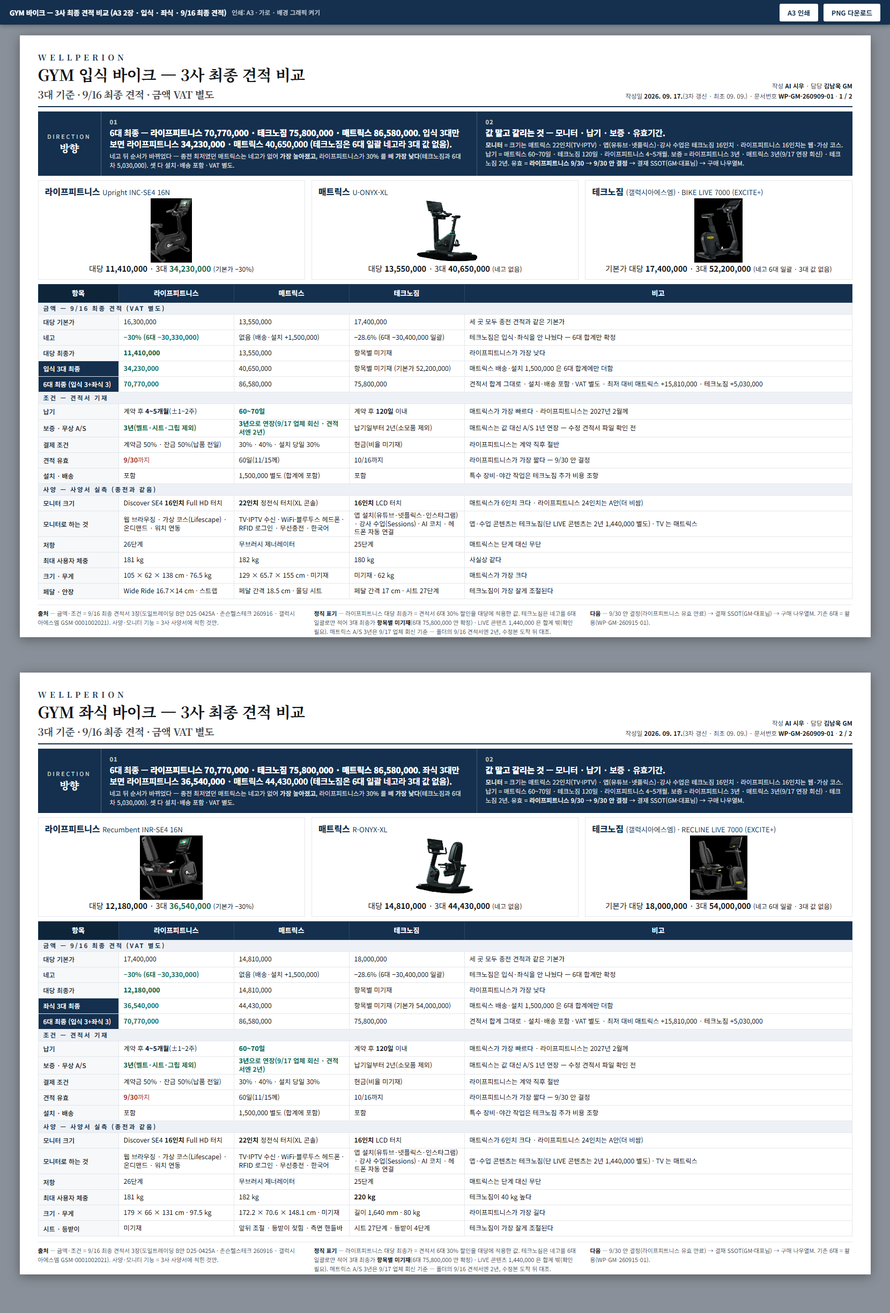
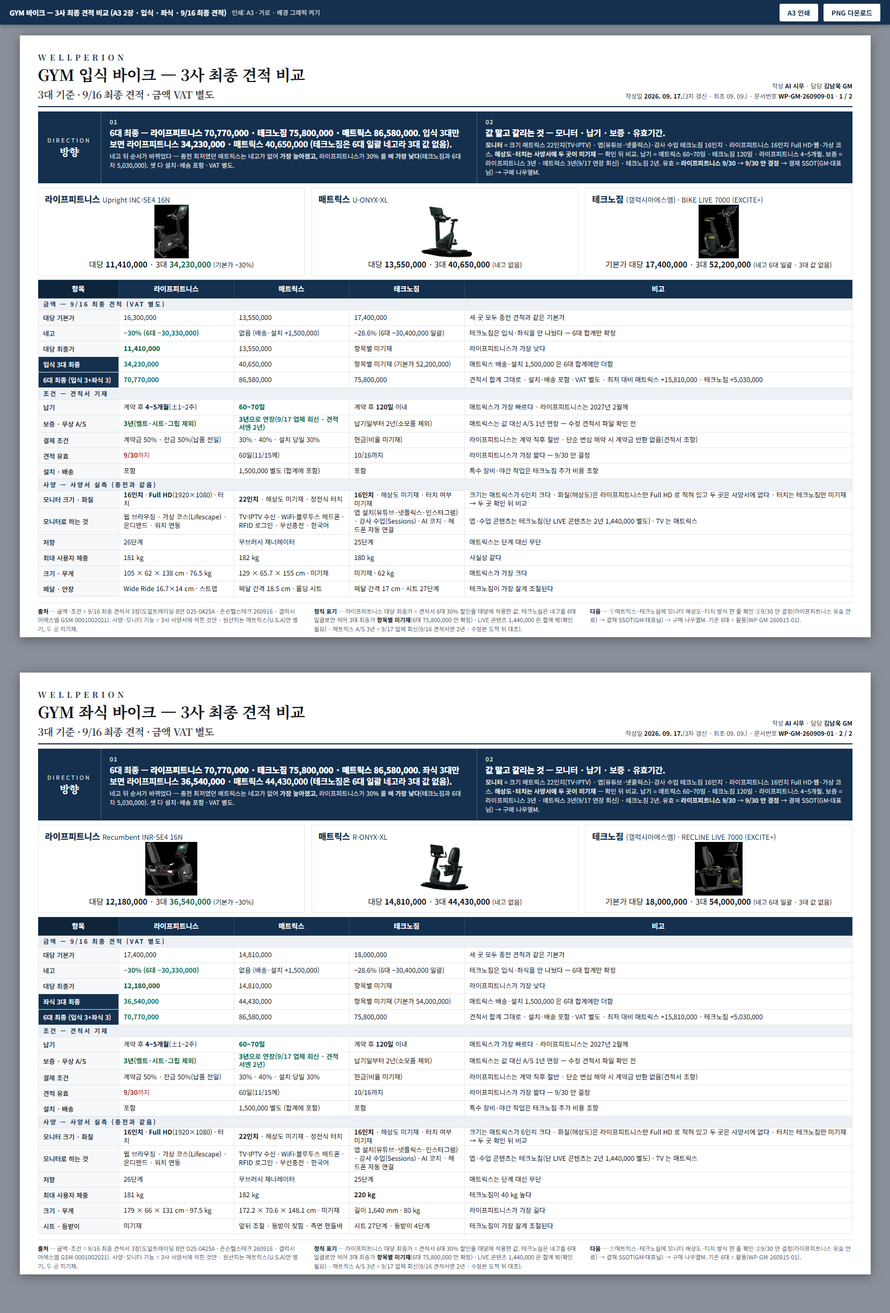
[시우] 바이크 3사 최종 견적 A3 — 모니터 본질 비교(크기·해상도·터치 · 미기재 2곳 확인 요) · 계약금 조항 · 원산지 표기 (GM 검토 요청 2026-09-17)

diff --git a/3. 웰페리온 가이드/coo/chairman/260909_GYM바이크_3사비교_A3.html b/3. 웰페리온 가이드/coo/chairman/260909_GYM바이크_3사비교_A3.html
@@ -134,24 +134,24 @@
     <div class="lb"><span>DIRECTION</span><strong>방향</strong></div>
     <div class="items">
       <div class="it"><div class="n">01</div><div><div class="q">6대 최종 — <b>라이프피트니스 70,770,000 · 테크노짐 75,800,000 · 매트릭스 86,580,000</b>. 입식 3대만 보면 라이프피트니스 <b>34,230,000</b> · 매트릭스 40,650,000 (테크노짐은 6대 일괄 네고라 3대 값 없음).</div><div class="d">네고 뒤 순서가 바뀌었다 — 종전 최저였던 매트릭스는 네고가 없어 <b>가장 높아졌고</b>, 라이프피트니스가 30% 를 빼 <b>가장 낮다</b>(테크노짐과 6대 차 5,030,000). 셋 다 설치·배송 포함 · VAT 별도.</div></div></div>
-      <div class="it"><div class="n">02</div><div><div class="q"><b>값 말고 갈리는 것</b> — 모니터 · 납기 · 보증 · 유효기간.</div><div class="d"><b>모니터</b> = 크기는 매트릭스 22인치(TV·IPTV) · 앱(유튜브·넷플릭스)·강사 수업은 테크노짐 16인치 · 라이프피트니스 16인치는 웹·가상 코스. 납기 = 매트릭스 60~70일 · 테크노짐 120일 · 라이프피트니스 4~5개월. 보증 = 라이프피트니스 3년 · 매트릭스 3년(9/17 연장 회신) · 테크노짐 2년. 유효 = <b>라이프피트니스 9/30</b> → <b>9/30 안 결정</b> → 결재 SSOT(GM·대표님) → 구매 나우열M.</div></div></div>
+      <div class="it"><div class="n">02</div><div><div class="q"><b>값 말고 갈리는 것</b> — 모니터 · 납기 · 보증 · 유효기간.</div><div class="d"><b>모니터</b> = 크기 매트릭스 22인치(TV·IPTV) · 앱(유튜브·넷플릭스)·강사 수업 테크노짐 16인치 · 라이프피트니스 16인치 Full HD·웹·가상 코스. <b>해상도·터치는 사양서에 두 곳이 미기재</b> — 확인 뒤 비교. 납기 = 매트릭스 60~70일 · 테크노짐 120일 · 라이프피트니스 4~5개월. 보증 = 라이프피트니스 3년 · 매트릭스 3년(9/17 연장 회신) · 테크노짐 2년. 유효 = <b>라이프피트니스 9/30</b> → <b>9/30 안 결정</b> → 결재 SSOT(GM·대표님) → 구매 나우열M.</div></div></div>
     </div>
   </div>
 
-  <div style="display:flex; gap:12px; margin-top:8px; height:186px">
+  <div style="display:flex; gap:12px; margin-top:8px; height:164px">
       <div style="flex:1; min-width:0; border:1px solid var(--line); padding:8px 12px 10px; display:flex; flex-direction:column">
         <div style="font-weight:800; font-size:16px; color:var(--navy)">라이프피트니스 <span style="font-weight:400; color:var(--dim); font-size:13px">Upright INC-SE4 16N</span></div>
-        <div style="flex:1; min-height:0; display:flex; align-items:center; justify-content:center; margin:6px 0"><img src="assets/bike/lf_p3_3.png" alt="라이프피트니스" style="max-width:100%; max-height:120px; object-fit:contain"></div>
+        <div style="flex:1; min-height:0; display:flex; align-items:center; justify-content:center; margin:6px 0"><img src="assets/bike/lf_p3_3.png" alt="라이프피트니스" style="max-width:100%; max-height:100px; object-fit:contain"></div>
         <div style="text-align:center; font-size:14.5px">대당 <b>11,410,000</b> · 3대 <b class="good">34,230,000</b> <span style="color:var(--dim);font-size:12px">(기본가 −30%)</span></div>
       </div>
       <div style="flex:1; min-width:0; border:1px solid var(--line); padding:8px 12px 10px; display:flex; flex-direction:column">
         <div style="font-weight:800; font-size:16px; color:var(--navy)">매트릭스 <span style="font-weight:400; color:var(--dim); font-size:13px">U-ONYX-XL</span></div>
-        <div style="flex:1; min-height:0; display:flex; align-items:center; justify-content:center; margin:6px 0"><img src="assets/bike/matrix_p7_6.png" alt="매트릭스" style="max-width:100%; max-height:120px; object-fit:contain"></div>
+        <div style="flex:1; min-height:0; display:flex; align-items:center; justify-content:center; margin:6px 0"><img src="assets/bike/matrix_p7_6.png" alt="매트릭스" style="max-width:100%; max-height:100px; object-fit:contain"></div>
         <div style="text-align:center; font-size:14.5px">대당 <b>13,550,000</b> · 3대 <b>40,650,000</b> <span style="color:var(--dim);font-size:12px">(네고 없음)</span></div>
       </div>
       <div style="flex:1; min-width:0; border:1px solid var(--line); padding:8px 12px 10px; display:flex; flex-direction:column">
         <div style="font-weight:800; font-size:16px; color:var(--navy)">테크노짐 <span style="font-weight:400; color:var(--dim); font-size:13px">(갤럭시아에스엠) · BIKE LIVE 7000 (EXCITE+)</span></div>
-        <div style="flex:1; min-height:0; display:flex; align-items:center; justify-content:center; margin:6px 0"><img src="assets/bike/techno_p3_7.png" alt="테크노짐" style="max-width:100%; max-height:120px; object-fit:contain"></div>
+        <div style="flex:1; min-height:0; display:flex; align-items:center; justify-content:center; margin:6px 0"><img src="assets/bike/techno_p3_7.png" alt="테크노짐" style="max-width:100%; max-height:100px; object-fit:contain"></div>
         <div style="text-align:center; font-size:14.5px">기본가 대당 <b>17,400,000</b> · 3대 <b>52,200,000</b> <span style="color:var(--dim);font-size:12px">(네고 6대 일괄 · 3대 값 없음)</span></div>
       </div>
   </div>
@@ -169,19 +169,19 @@
         <tr class="grp"><td colspan="5">조건 — 견적서 기재</td></tr>
         <tr><td class="k">납기</td><td class="c">계약 후 <b>4~5개월</b>(±1~2주)</td><td class="c good"><b>60~70일</b></td><td class="c">계약 후 <b>120일</b> 이내</td><td>매트릭스가 가장 빠르다 · 라이프피트니스는 2027년 2월께</td></tr>
         <tr><td class="k">보증 · 무상 A/S</td><td class="c good"><b>3년</b>(벨트·시트·그립 제외)</td><td class="c good"><b>3년</b>으로 연장(9/17 업체 회신 · 견적서엔 2년)</td><td class="c">납기일부터 2년(소모품 제외)</td><td>매트릭스는 값 대신 A/S 1년 연장 — 수정 견적서 파일 확인 전</td></tr>
-        <tr><td class="k">결제 조건</td><td class="c">계약금 50% · 잔금 50%(납품 전일)</td><td class="c">30% · 40% · 설치 당일 30%</td><td class="c">현금(비율 미기재)</td><td>라이프피트니스는 계약 직후 절반</td></tr>
+        <tr><td class="k">결제 조건</td><td class="c">계약금 50% · 잔금 50%(납품 전일)</td><td class="c">30% · 40% · 설치 당일 30%</td><td class="c">현금(비율 미기재)</td><td>라이프피트니스는 계약 직후 절반 · 단순 변심 해약 시 계약금 반환 없음(견적서 조항)</td></tr>
         <tr><td class="k">견적 유효</td><td class="c" style="color:#9E2A2A"><b>9/30</b>까지</td><td class="c">60일(11/15께)</td><td class="c">10/16까지</td><td>라이프피트니스가 가장 짧다 — 9/30 안 결정</td></tr>
         <tr><td class="k">설치 · 배송</td><td class="c">포함</td><td class="c">1,500,000 별도 (합계에 포함)</td><td class="c">포함</td><td>특수 장비·야간 작업은 테크노짐 추가 비용 조항</td></tr>
         <tr class="grp"><td colspan="5">사양 — 사양서 실측 (종전과 같음)</td></tr>
-        <tr><td class="k">모니터 크기</td><td class="c">Discover SE4 <b>16인치</b> Full HD 터치</td><td class="c"><b>22인치</b> 정전식 터치(XL 콘솔)</td><td class="c"><b>16인치</b> LCD 터치</td><td>매트릭스가 6인치 크다 · 라이프피트니스 24인치는 A안(더 비쌈)</td></tr><tr><td class="k">모니터로 하는 것</td><td class="c">웹 브라우징 · 가상 코스(Lifescape) · 온디맨드 · 워치 연동</td><td class="c">TV·IPTV 수신 · WiFi·블루투스 헤드폰 · RFID 로그인 · 무선충전 · 한국어</td><td class="c">앱 설치(유튜브·넷플릭스·인스타그램) · 강사 수업(Sessions) · AI 코치 · 헤드폰 자동 연결</td><td>앱·수업 콘텐츠는 테크노짐(단 LIVE 콘텐츠는 2년 1,440,000 별도) · TV 는 매트릭스</td></tr><tr><td class="k">저항</td><td class="c">26단계</td><td class="c">무브러시 제너레이터</td><td class="c">25단계</td><td>매트릭스는 단계 대신 무단</td></tr><tr><td class="k">최대 사용자 체중</td><td class="c">181 kg</td><td class="c">182 kg</td><td class="c">180 kg</td><td>사실상 같다</td></tr><tr><td class="k">크기 · 무게</td><td class="c">105 × 62 × 138 cm · 76.5 kg</td><td class="c">129 × 65.7 × 155 cm · 미기재</td><td class="c">미기재 · 62 kg</td><td>매트릭스가 가장 크다</td></tr><tr><td class="k">페달 · 안장</td><td class="c">Wide Ride 16.7×14 cm · 스트랩</td><td class="c">페달 간격 18.5 cm · 몰딩 시트</td><td class="c">페달 간격 17 cm · 시트 27단계</td><td>테크노짐이 가장 잘게 조절된다</td></tr>
+        <tr><td class="k">모니터 크기 · 화질</td><td class="c"><b>16인치</b> · <b>Full HD</b>(1920×1080) · 터치</td><td class="c"><b>22인치</b> · 해상도 미기재 · 정전식 터치</td><td class="c"><b>16인치</b> · 해상도 미기재 · 터치 여부 미기재</td><td>크기는 매트릭스가 6인치 크다 · 화질(해상도)은 라이프피트니스만 Full HD 로 적혀 있고 두 곳은 사양서에 없다 · 터치는 테크노짐만 미기재 → 두 곳 확인 뒤 비교</td></tr><tr><td class="k">모니터로 하는 것</td><td class="c">웹 브라우징 · 가상 코스(Lifescape) · 온디맨드 · 워치 연동</td><td class="c">TV·IPTV 수신 · WiFi·블루투스 헤드폰 · RFID 로그인 · 무선충전 · 한국어</td><td class="c">앱 설치(유튜브·넷플릭스·인스타그램) · 강사 수업(Sessions) · AI 코치 · 헤드폰 자동 연결</td><td>앱·수업 콘텐츠는 테크노짐(단 LIVE 콘텐츠는 2년 1,440,000 별도) · TV 는 매트릭스</td></tr><tr><td class="k">저항</td><td class="c">26단계</td><td class="c">무브러시 제너레이터</td><td class="c">25단계</td><td>매트릭스는 단계 대신 무단</td></tr><tr><td class="k">최대 사용자 체중</td><td class="c">181 kg</td><td class="c">182 kg</td><td class="c">180 kg</td><td>사실상 같다</td></tr><tr><td class="k">크기 · 무게</td><td class="c">105 × 62 × 138 cm · 76.5 kg</td><td class="c">129 × 65.7 × 155 cm · 미기재</td><td class="c">미기재 · 62 kg</td><td>매트릭스가 가장 크다</td></tr><tr><td class="k">페달 · 안장</td><td class="c">Wide Ride 16.7×14 cm · 스트랩</td><td class="c">페달 간격 18.5 cm · 몰딩 시트</td><td class="c">페달 간격 17 cm · 시트 27단계</td><td>테크노짐이 가장 잘게 조절된다</td></tr>
       </tbody>
     </table>
   </div>
 
   <div class="foot">
-    <div><b>출처</b> — 금액·조건 = 9/16 최종 견적서 3장(도일트레이딩 B안 D25-0425A · 존슨헬스테크 260916 · 갤럭시아에스엠 GSM-0001002021). 사양·모니터 기능 = 3사 사양서에 적힌 것만.</div>
-    <div><b>정직 표기</b> — 라이프피트니스 대당 최종가 = 견적서 6대 30% 할인을 대당에 적용한 값. 테크노짐은 네고를 6대 일괄로만 적어 3대 최종가 <b>항목별 미기재</b>(6대 75,800,000 만 확정) · LIVE 콘텐츠 1,440,000 은 합계 밖(확인 필요). 매트릭스 A/S 3년은 9/17 업체 회신 기준 — 폴더의 9/16 견적서엔 2년, 수정본 도착 뒤 대조.</div>
-    <div><b>다음</b> — 9/30 안 결정(라이프피트니스 유효 만료) → 결재 SSOT(GM·대표님) → 구매 나우열M. 기존 6대 = 활용(WP-GM-260915-01).</div>
+    <div><b>출처</b> — 금액·조건 = 9/16 최종 견적서 3장(도일트레이딩 B안 D25-0425A · 존슨헬스테크 260916 · 갤럭시아에스엠 GSM-0001002021). 사양·모니터 기능 = 3사 사양서에 적힌 것만 · 원산지는 매트릭스(U.S.A)만 명기, 두 곳 미기재.</div>
+    <div><b>정직 표기</b> — 라이프피트니스 대당 최종가 = 견적서 6대 30% 할인을 대당에 적용한 값. 테크노짐은 네고를 6대 일괄로만 적어 3대 최종가 <b>항목별 미기재</b>(6대 75,800,000 만 확정) · LIVE 콘텐츠 1,440,000 은 합계 밖(확인 필요) · 매트릭스 A/S 3년 = 9/17 업체 회신(9/16 견적서엔 2년 · 수정본 도착 뒤 대조).</div>
+    <div><b>다음</b> — ①매트릭스·테크노짐에 모니터 해상도·터치 방식 한 줄 확인 ②9/30 안 결정(라이프피트니스 유효 만료) → 결재 SSOT(GM·대표님) → 구매 나우열M. 기존 6대 = 활용(WP-GM-260915-01).</div>
   </div>
 </div>
 
@@ -201,24 +201,24 @@
     <div class="lb"><span>DIRECTION</span><strong>방향</strong></div>
     <div class="items">
       <div class="it"><div class="n">01</div><div><div class="q">6대 최종 — <b>라이프피트니스 70,770,000 · 테크노짐 75,800,000 · 매트릭스 86,580,000</b>. 좌식 3대만 보면 라이프피트니스 <b>36,540,000</b> · 매트릭스 44,430,000 (테크노짐은 6대 일괄 네고라 3대 값 없음).</div><div class="d">네고 뒤 순서가 바뀌었다 — 종전 최저였던 매트릭스는 네고가 없어 <b>가장 높아졌고</b>, 라이프피트니스가 30% 를 빼 <b>가장 낮다</b>(테크노짐과 6대 차 5,030,000). 셋 다 설치·배송 포함 · VAT 별도.</div></div></div>
-      <div class="it"><div class="n">02</div><div><div class="q"><b>값 말고 갈리는 것</b> — 모니터 · 납기 · 보증 · 유효기간.</div><div class="d"><b>모니터</b> = 크기는 매트릭스 22인치(TV·IPTV) · 앱(유튜브·넷플릭스)·강사 수업은 테크노짐 16인치 · 라이프피트니스 16인치는 웹·가상 코스. 납기 = 매트릭스 60~70일 · 테크노짐 120일 · 라이프피트니스 4~5개월. 보증 = 라이프피트니스 3년 · 매트릭스 3년(9/17 연장 회신) · 테크노짐 2년. 유효 = <b>라이프피트니스 9/30</b> → <b>9/30 안 결정</b> → 결재 SSOT(GM·대표님) → 구매 나우열M.</div></div></div>
+      <div class="it"><div class="n">02</div><div><div class="q"><b>값 말고 갈리는 것</b> — 모니터 · 납기 · 보증 · 유효기간.</div><div class="d"><b>모니터</b> = 크기 매트릭스 22인치(TV·IPTV) · 앱(유튜브·넷플릭스)·강사 수업 테크노짐 16인치 · 라이프피트니스 16인치 Full HD·웹·가상 코스. <b>해상도·터치는 사양서에 두 곳이 미기재</b> — 확인 뒤 비교. 납기 = 매트릭스 60~70일 · 테크노짐 120일 · 라이프피트니스 4~5개월. 보증 = 라이프피트니스 3년 · 매트릭스 3년(9/17 연장 회신) · 테크노짐 2년. 유효 = <b>라이프피트니스 9/30</b> → <b>9/30 안 결정</b> → 결재 SSOT(GM·대표님) → 구매 나우열M.</div></div></div>
     </div>
   </div>
 
-  <div style="display:flex; gap:12px; margin-top:8px; height:186px">
+  <div style="display:flex; gap:12px; margin-top:8px; height:164px">
       <div style="flex:1; min-width:0; border:1px solid var(--line); padding:8px 12px 10px; display:flex; flex-direction:column">
         <div style="font-weight:800; font-size:16px; color:var(--navy)">라이프피트니스 <span style="font-weight:400; color:var(--dim); font-size:13px">Recumbent INR-SE4 16N</span></div>
-        <div style="flex:1; min-height:0; display:flex; align-items:center; justify-content:center; margin:6px 0"><img src="assets/bike/lf_p4_3.png" alt="라이프피트니스" style="max-width:100%; max-height:120px; object-fit:contain"></div>
+        <div style="flex:1; min-height:0; display:flex; align-items:center; justify-content:center; margin:6px 0"><img src="assets/bike/lf_p4_3.png" alt="라이프피트니스" style="max-width:100%; max-height:100px; object-fit:contain"></div>
         <div style="text-align:center; font-size:14.5px">대당 <b>12,180,000</b> · 3대 <b class="good">36,540,000</b> <span style="color:var(--dim);font-size:12px">(기본가 −30%)</span></div>
       </div>
       <div style="flex:1; min-width:0; border:1px solid var(--line); padding:8px 12px 10px; display:flex; flex-direction:column">
         <div style="font-weight:800; font-size:16px; color:var(--navy)">매트릭스 <span style="font-weight:400; color:var(--dim); font-size:13px">R-ONYX-XL</span></div>
-        <div style="flex:1; min-height:0; display:flex; align-items:center; justify-content:center; margin:6px 0"><img src="assets/bike/matrix_p9_3.png" alt="매트릭스" style="max-width:100%; max-height:120px; object-fit:contain"></div>
+        <div style="flex:1; min-height:0; display:flex; align-items:center; justify-content:center; margin:6px 0"><img src="assets/bike/matrix_p9_3.png" alt="매트릭스" style="max-width:100%; max-height:100px; object-fit:contain"></div>
         <div style="text-align:center; font-size:14.5px">대당 <b>14,810,000</b> · 3대 <b>44,430,000</b> <span style="color:var(--dim);font-size:12px">(네고 없음)</span></div>
       </div>
       <div style="flex:1; min-width:0; border:1px solid var(--line); padding:8px 12px 10px; display:flex; flex-direction:column">
         <div style="font-weight:800; font-size:16px; color:var(--navy)">테크노짐 <span style="font-weight:400; color:var(--dim); font-size:13px">(갤럭시아에스엠) · RECLINE LIVE 7000 (EXCITE+)</span></div>
-        <div style="flex:1; min-height:0; display:flex; align-items:center; justify-content:center; margin:6px 0"><img src="assets/bike/techno_p4_7.png" alt="테크노짐" style="max-width:100%; max-height:120px; object-fit:contain"></div>
+        <div style="flex:1; min-height:0; display:flex; align-items:center; justify-content:center; margin:6px 0"><img src="assets/bike/techno_p4_7.png" alt="테크노짐" style="max-width:100%; max-height:100px; object-fit:contain"></div>
         <div style="text-align:center; font-size:14.5px">기본가 대당 <b>18,000,000</b> · 3대 <b>54,000,000</b> <span style="color:var(--dim);font-size:12px">(네고 6대 일괄 · 3대 값 없음)</span></div>
       </div>
   </div>
@@ -236,19 +236,19 @@
         <tr class="grp"><td colspan="5">조건 — 견적서 기재</td></tr>
         <tr><td class="k">납기</td><td class="c">계약 후 <b>4~5개월</b>(±1~2주)</td><td class="c good"><b>60~70일</b></td><td class="c">계약 후 <b>120일</b> 이내</td><td>매트릭스가 가장 빠르다 · 라이프피트니스는 2027년 2월께</td></tr>
         <tr><td class="k">보증 · 무상 A/S</td><td class="c good"><b>3년</b>(벨트·시트·그립 제외)</td><td class="c good"><b>3년</b>으로 연장(9/17 업체 회신 · 견적서엔 2년)</td><td class="c">납기일부터 2년(소모품 제외)</td><td>매트릭스는 값 대신 A/S 1년 연장 — 수정 견적서 파일 확인 전</td></tr>
-        <tr><td class="k">결제 조건</td><td class="c">계약금 50% · 잔금 50%(납품 전일)</td><td class="c">30% · 40% · 설치 당일 30%</td><td class="c">현금(비율 미기재)</td><td>라이프피트니스는 계약 직후 절반</td></tr>
+        <tr><td class="k">결제 조건</td><td class="c">계약금 50% · 잔금 50%(납품 전일)</td><td class="c">30% · 40% · 설치 당일 30%</td><td class="c">현금(비율 미기재)</td><td>라이프피트니스는 계약 직후 절반 · 단순 변심 해약 시 계약금 반환 없음(견적서 조항)</td></tr>
         <tr><td class="k">견적 유효</td><td class="c" style="color:#9E2A2A"><b>9/30</b>까지</td><td class="c">60일(11/15께)</td><td class="c">10/16까지</td><td>라이프피트니스가 가장 짧다 — 9/30 안 결정</td></tr>
         <tr><td class="k">설치 · 배송</td><td class="c">포함</td><td class="c">1,500,000 별도 (합계에 포함)</td><td class="c">포함</td><td>특수 장비·야간 작업은 테크노짐 추가 비용 조항</td></tr>
         <tr class="grp"><td colspan="5">사양 — 사양서 실측 (종전과 같음)</td></tr>
-        <tr><td class="k">모니터 크기</td><td class="c">Discover SE4 <b>16인치</b> Full HD 터치</td><td class="c"><b>22인치</b> 정전식 터치(XL 콘솔)</td><td class="c"><b>16인치</b> LCD 터치</td><td>매트릭스가 6인치 크다 · 라이프피트니스 24인치는 A안(더 비쌈)</td></tr><tr><td class="k">모니터로 하는 것</td><td class="c">웹 브라우징 · 가상 코스(Lifescape) · 온디맨드 · 워치 연동</td><td class="c">TV·IPTV 수신 · WiFi·블루투스 헤드폰 · RFID 로그인 · 무선충전 · 한국어</td><td class="c">앱 설치(유튜브·넷플릭스·인스타그램) · 강사 수업(Sessions) · AI 코치 · 헤드폰 자동 연결</td><td>앱·수업 콘텐츠는 테크노짐(단 LIVE 콘텐츠는 2년 1,440,000 별도) · TV 는 매트릭스</td></tr><tr><td class="k">저항</td><td class="c">26단계</td><td class="c">무브러시 제너레이터</td><td class="c">25단계</td><td>매트릭스는 단계 대신 무단</td></tr><tr><td class="k">최대 사용자 체중</td><td class="c">181 kg</td><td class="c">182 kg</td><td class="c"><b>220 kg</b></td><td>테크노짐이 40 kg 높다</td></tr><tr><td class="k">크기 · 무게</td><td class="c">179 × 66 × 131 cm · 97.5 kg</td><td class="c">172.2 × 70.6 × 148.1 cm · 미기재</td><td class="c">길이 1,640 mm · 80 kg</td><td>라이프피트니스가 가장 길다</td></tr><tr><td class="k">시트 · 등받이</td><td class="c">미기재</td><td class="c">앞뒤 조절 · 등받이 젖힘 · 측면 핸들바</td><td class="c">시트 27단계 · 등받이 4단계</td><td>테크노짐이 가장 잘게 조절된다</td></tr>
+        <tr><td class="k">모니터 크기 · 화질</td><td class="c"><b>16인치</b> · <b>Full HD</b>(1920×1080) · 터치</td><td class="c"><b>22인치</b> · 해상도 미기재 · 정전식 터치</td><td class="c"><b>16인치</b> · 해상도 미기재 · 터치 여부 미기재</td><td>크기는 매트릭스가 6인치 크다 · 화질(해상도)은 라이프피트니스만 Full HD 로 적혀 있고 두 곳은 사양서에 없다 · 터치는 테크노짐만 미기재 → 두 곳 확인 뒤 비교</td></tr><tr><td class="k">모니터로 하는 것</td><td class="c">웹 브라우징 · 가상 코스(Lifescape) · 온디맨드 · 워치 연동</td><td class="c">TV·IPTV 수신 · WiFi·블루투스 헤드폰 · RFID 로그인 · 무선충전 · 한국어</td><td class="c">앱 설치(유튜브·넷플릭스·인스타그램) · 강사 수업(Sessions) · AI 코치 · 헤드폰 자동 연결</td><td>앱·수업 콘텐츠는 테크노짐(단 LIVE 콘텐츠는 2년 1,440,000 별도) · TV 는 매트릭스</td></tr><tr><td class="k">저항</td><td class="c">26단계</td><td class="c">무브러시 제너레이터</td><td class="c">25단계</td><td>매트릭스는 단계 대신 무단</td></tr><tr><td class="k">최대 사용자 체중</td><td class="c">181 kg</td><td class="c">182 kg</td><td class="c"><b>220 kg</b></td><td>테크노짐이 40 kg 높다</td></tr><tr><td class="k">크기 · 무게</td><td class="c">179 × 66 × 131 cm · 97.5 kg</td><td class="c">172.2 × 70.6 × 148.1 cm · 미기재</td><td class="c">길이 1,640 mm · 80 kg</td><td>라이프피트니스가 가장 길다</td></tr><tr><td class="k">시트 · 등받이</td><td class="c">미기재</td><td class="c">앞뒤 조절 · 등받이 젖힘 · 측면 핸들바</td><td class="c">시트 27단계 · 등받이 4단계</td><td>테크노짐이 가장 잘게 조절된다</td></tr>
       </tbody>
     </table>
   </div>
 
   <div class="foot">
-    <div><b>출처</b> — 금액·조건 = 9/16 최종 견적서 3장(도일트레이딩 B안 D25-0425A · 존슨헬스테크 260916 · 갤럭시아에스엠 GSM-0001002021). 사양·모니터 기능 = 3사 사양서에 적힌 것만.</div>
-    <div><b>정직 표기</b> — 라이프피트니스 대당 최종가 = 견적서 6대 30% 할인을 대당에 적용한 값. 테크노짐은 네고를 6대 일괄로만 적어 3대 최종가 <b>항목별 미기재</b>(6대 75,800,000 만 확정) · LIVE 콘텐츠 1,440,000 은 합계 밖(확인 필요). 매트릭스 A/S 3년은 9/17 업체 회신 기준 — 폴더의 9/16 견적서엔 2년, 수정본 도착 뒤 대조.</div>
-    <div><b>다음</b> — 9/30 안 결정(라이프피트니스 유효 만료) → 결재 SSOT(GM·대표님) → 구매 나우열M. 기존 6대 = 활용(WP-GM-260915-01).</div>
+    <div><b>출처</b> — 금액·조건 = 9/16 최종 견적서 3장(도일트레이딩 B안 D25-0425A · 존슨헬스테크 260916 · 갤럭시아에스엠 GSM-0001002021). 사양·모니터 기능 = 3사 사양서에 적힌 것만 · 원산지는 매트릭스(U.S.A)만 명기, 두 곳 미기재.</div>
+    <div><b>정직 표기</b> — 라이프피트니스 대당 최종가 = 견적서 6대 30% 할인을 대당에 적용한 값. 테크노짐은 네고를 6대 일괄로만 적어 3대 최종가 <b>항목별 미기재</b>(6대 75,800,000 만 확정) · LIVE 콘텐츠 1,440,000 은 합계 밖(확인 필요) · 매트릭스 A/S 3년 = 9/17 업체 회신(9/16 견적서엔 2년 · 수정본 도착 뒤 대조).</div>
+    <div><b>다음</b> — ①매트릭스·테크노짐에 모니터 해상도·터치 방식 한 줄 확인 ②9/30 안 결정(라이프피트니스 유효 만료) → 결재 SSOT(GM·대표님) → 구매 나우열M. 기존 6대 = 활용(WP-GM-260915-01).</div>
   </div>
 </div>
 
